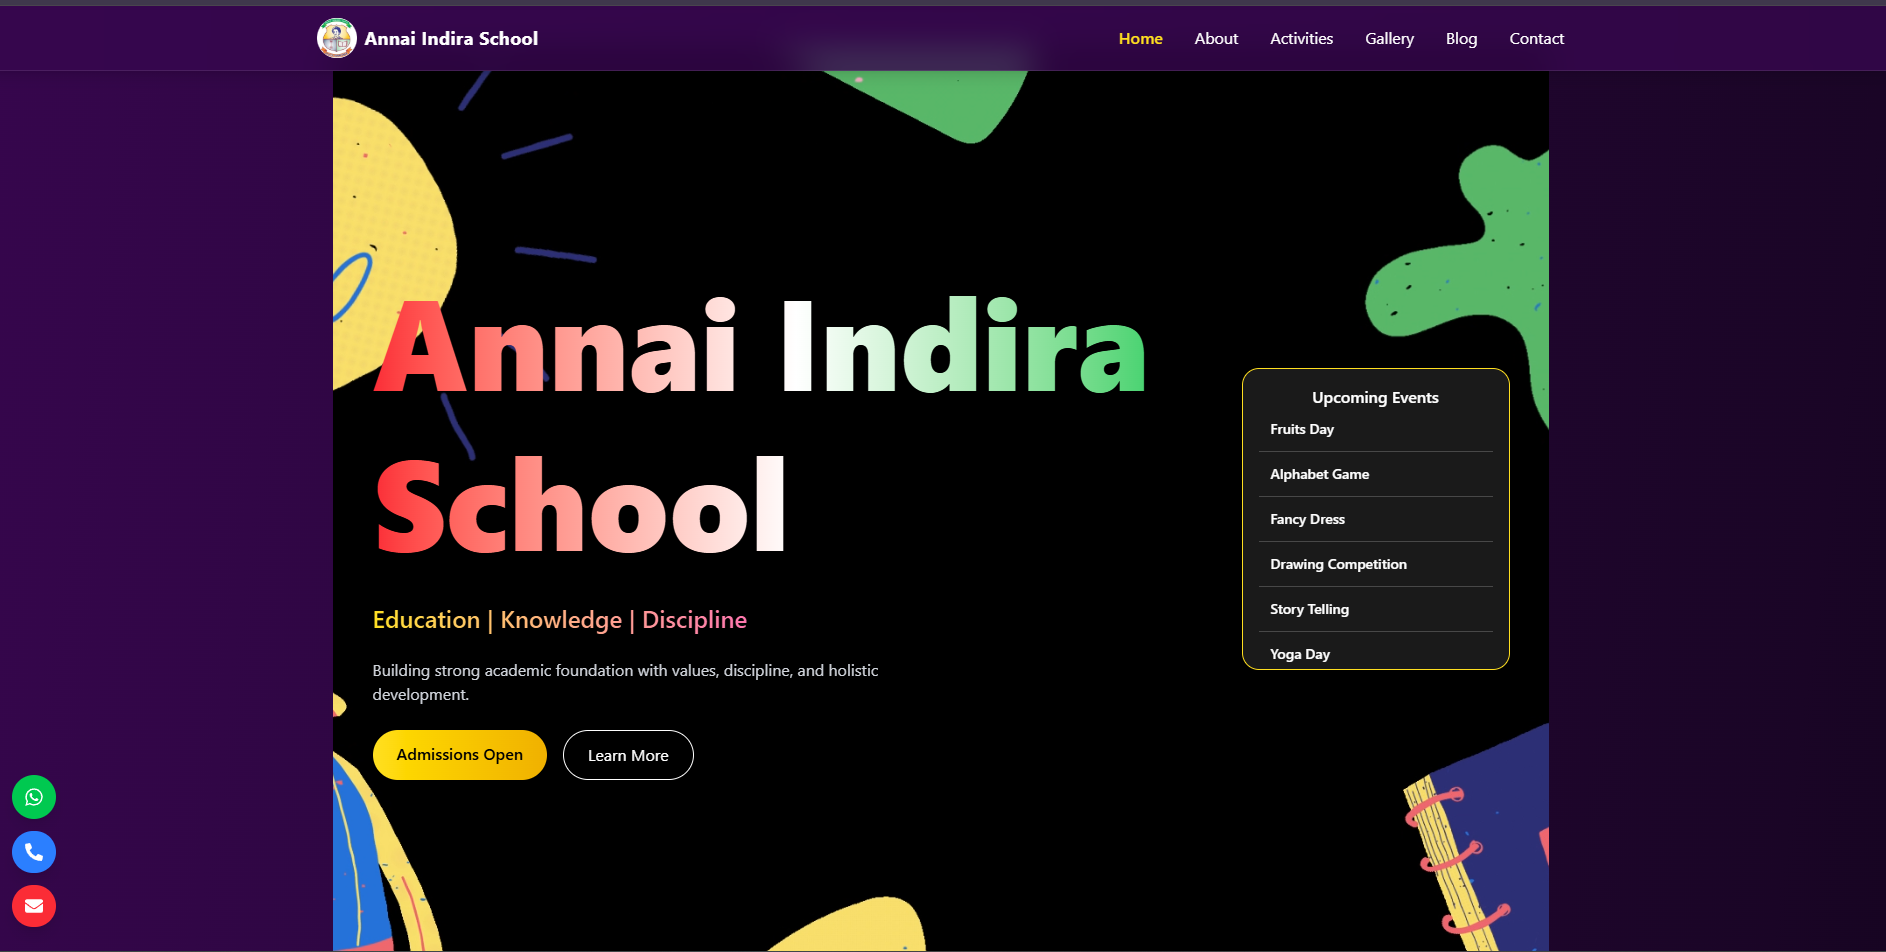
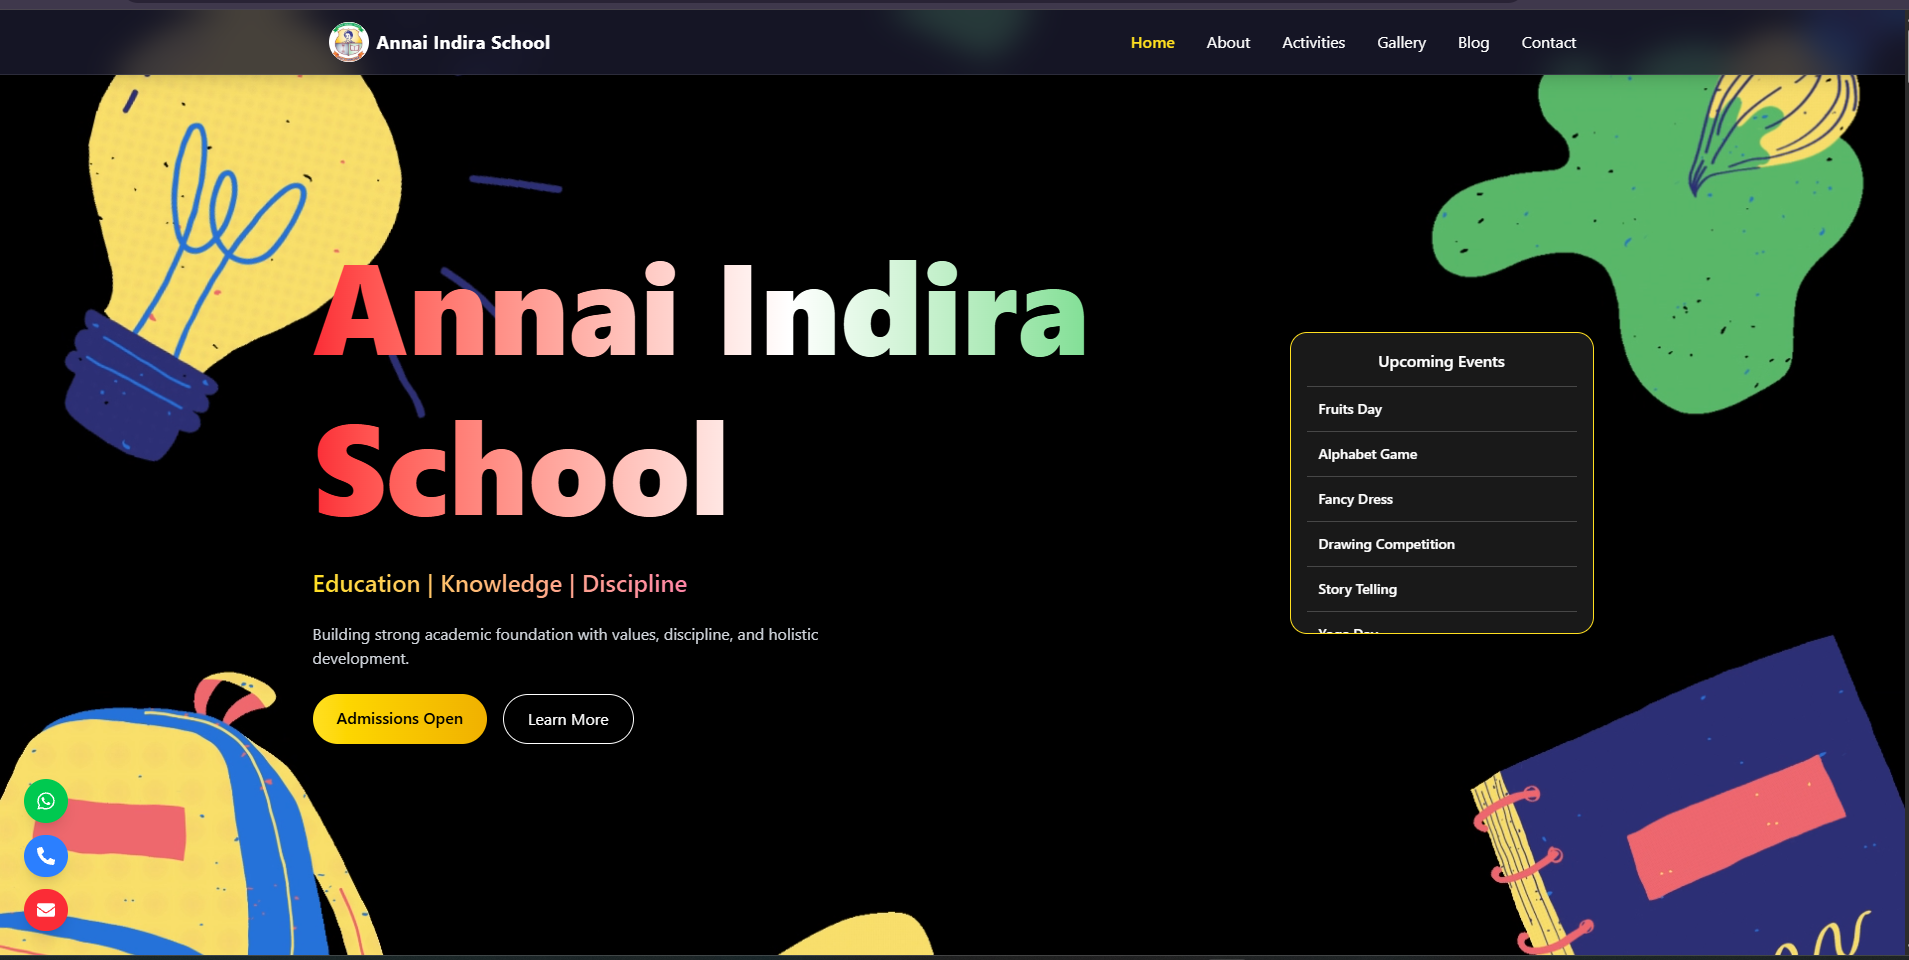
about section and portfolio link updated

diff --git a/src/pages/About.jsx b/src/pages/About.jsx
@@ -191,25 +191,27 @@ const About = () => {
   <h2 className="text-3xl font-bold mb-4 bg-gradient-to-r from-[#00C8FF] via-[#7C4DFF] to-[#FF4081] bg-clip-text text-transparent">
     About Me
   </h2>
-
   <p className="text-[#B0B0B0] text-lg leading-relaxed mb-4">
-    I'm <strong>Rakesh M</strong> — Founder of <strong>InspireLoop Tech</strong>, a creative digital startup focused on 
-    modern websites, branding, UI/UX design, and innovative digital experiences. I love transforming ideas into 
-    visually powerful and meaningful solutions that help businesses grow in the digital world.
-  </p>
+  I'm <strong>Rakesh M</strong> — a creative individual passionate about design, 
+  technology, and building digital experiences. I enjoy exploring new ideas, 
+  learning new skills, and turning them into creative and practical solutions. 
+  I believe in continuously learning, experimenting, and implementing ideas 
+  through real-world projects.
+</p>
 
-  <p className="text-[#B0B0B0] text-lg leading-relaxed mb-4">
-    I completed my <strong>B.E.</strong> and I am currently pursuing an <strong>MBA</strong> at the University of Madras, 
-    specializing in <strong>Human Resource Management and Marketing</strong>. This combination of technology, business, 
-    and creativity helps me design solutions that are both beautiful and strategically effective.
-  </p>
+<p className="text-[#B0B0B0] text-lg leading-relaxed mb-4">
+  My educational background includes a <strong>B.E. from College of Engineering, 
+  Guindy (Anna University)</strong> and an <strong>MBA from the University of Madras</strong>. 
+  My journey combines creativity, technology, and business perspectives, 
+  helping me approach projects with curiosity and a fresh mindset.
+</p>
 
-  <p className="text-[#B0B0B0] text-lg leading-relaxed">
-    I have also earned certifications in <strong>Graphic Design, Web Development, Java Programming, Excel, and Digital 
-    Tools</strong>, and completed multiple real-world creative projects including logos, posters, brand identities, 
-    full-stack websites, and UI designs. My goal is to build smart, scalable, and impactful digital products that 
-    inspire people and create real value.
-  </p>
+<p className="text-[#B0B0B0] text-lg leading-relaxed">
+  I love creating websites, designing graphics, exploring new technologies, 
+  and bringing ideas to life. I'm always open to new opportunities, creative 
+  collaborations, and freelance projects. <strong>Feel free to contact me anytime 
+  to collaborate, discuss ideas, or build something amazing together.</strong>
+</p>
 </div>
         </div>
       </section>

diff --git a/src/pages/Portfolio.jsx b/src/pages/Portfolio.jsx
@@ -5,7 +5,7 @@ const websiteProjects = [
   { title: 'MPR POWER TECH', img:'./image/websites/mprpowertechnew.png', link:"https://mprpowertech.online/" },
   { title: 'Lunico kitchen', img:'./image/websites/catering app.png', link:"https://lunicokitchen.com/" },
   { title: 'Annai Indira School', img:'./image/websites/annaiindiraschool.png', link: "https://annaiindiraedu.org/" },
-  { title: 'Edge Club', img:'./image/websites/egdeclub.png', link: "https://edgeunom.online/" },
+  { title: 'Edge Club', img:'./image/websites/egdeclub.png', link: "https://edgeclub.onrender.com/" },
   { title: 'Synergy Club', img:'./image/websites/synergyclub (1).png', link:"http://synergyunom.onrender.com/"},
   { title: 'Electrical', img:'./image/websites/mpr2024.png', link:"https://mprpowertechofficial.netlify.app/" },
   { title: 'Social Media Site', img:'./image/websites/socialmedia.png', link: "https://reactapp2023.onrender.com/"},
